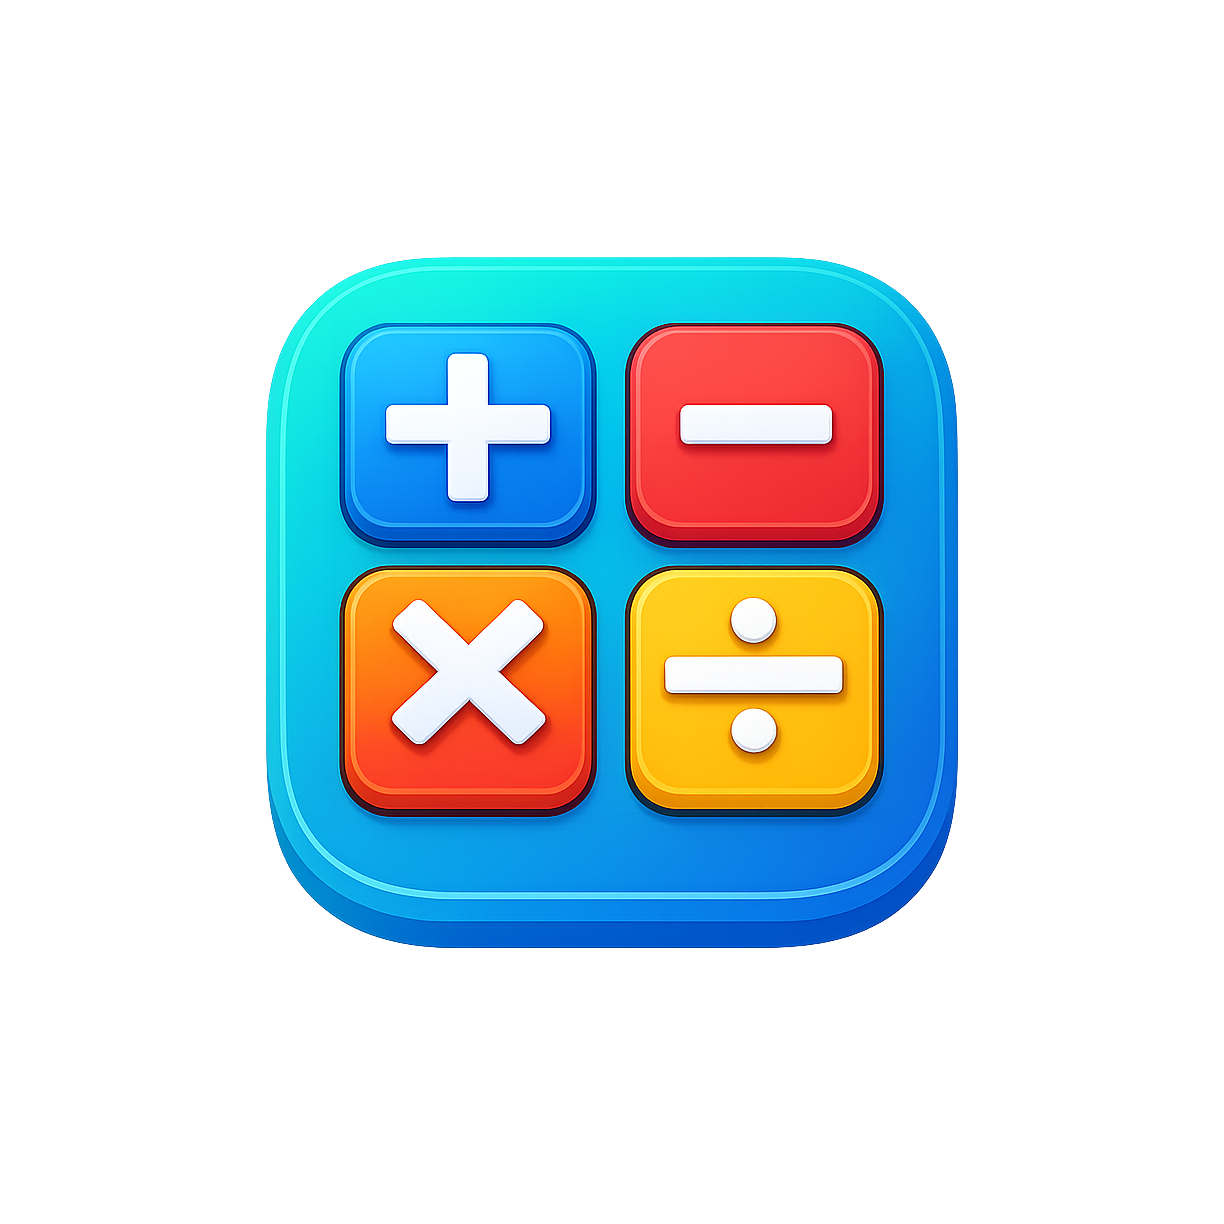
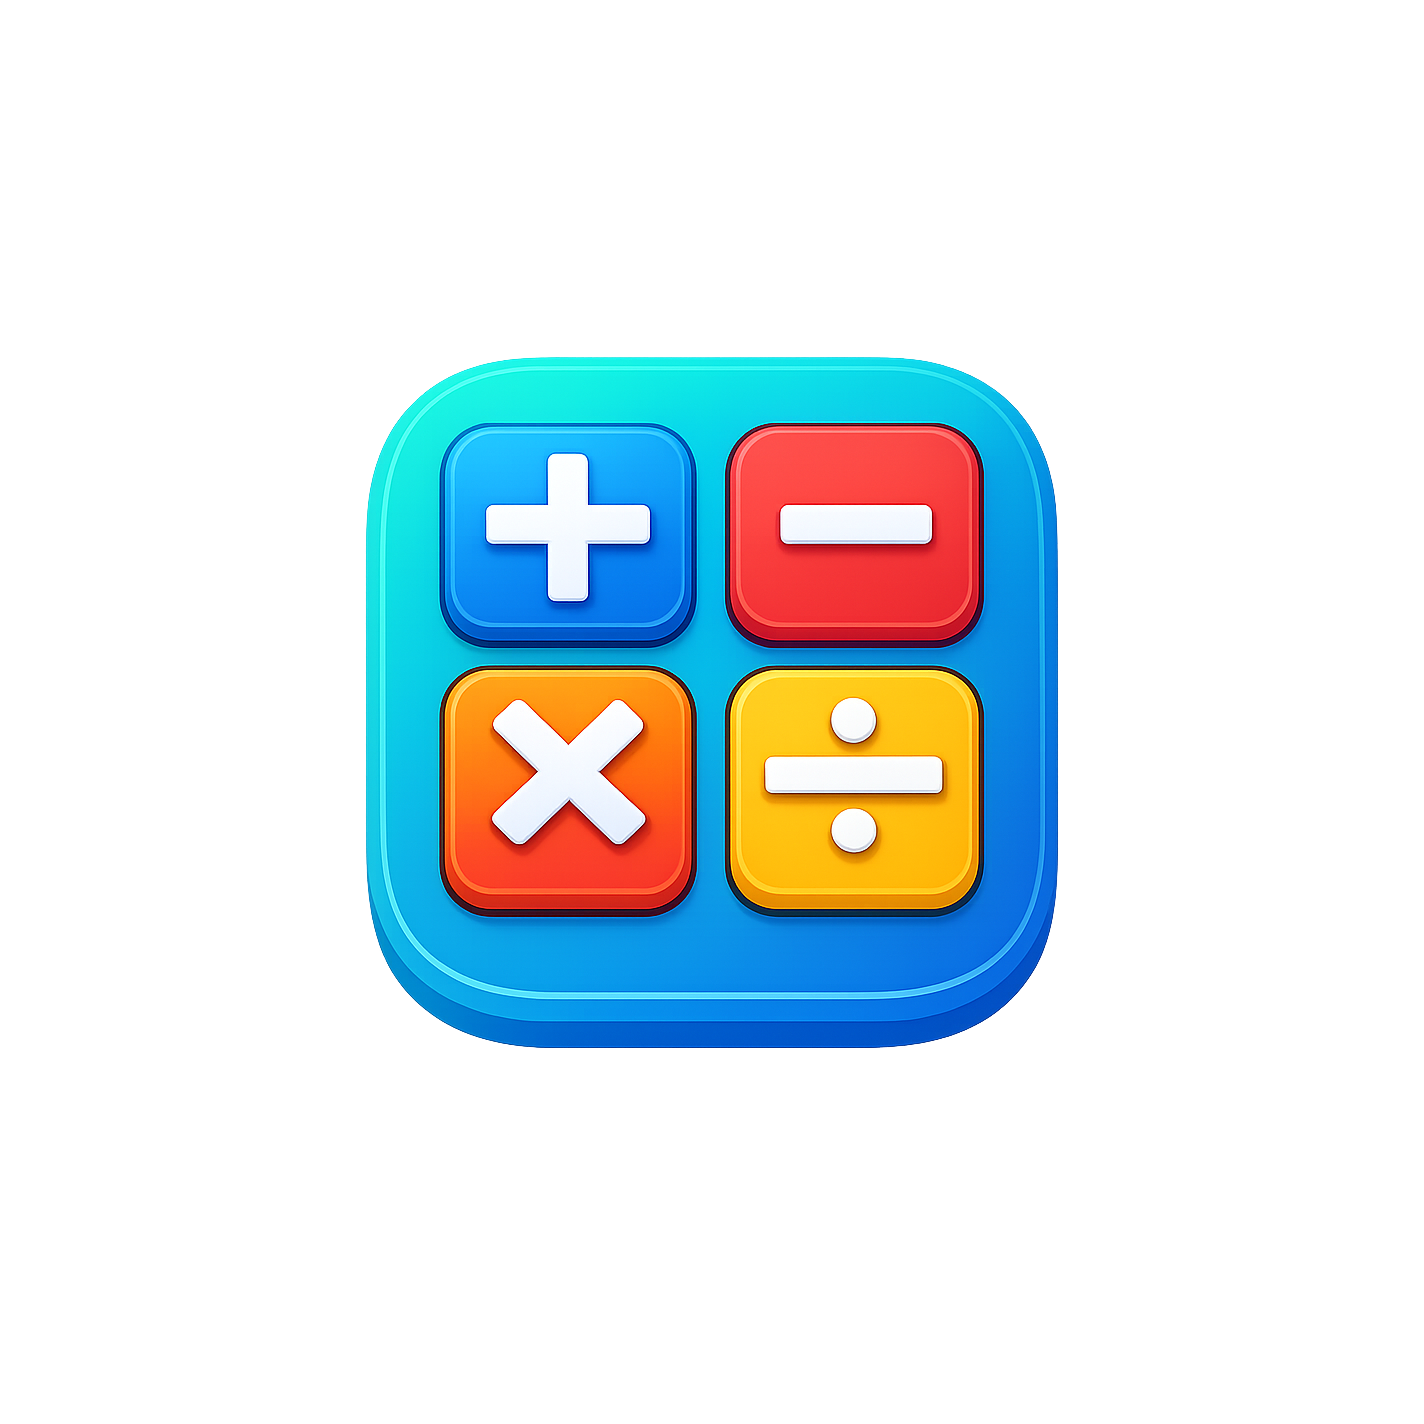
feat: implement calculator functionality and add NotFound component; update README and assets

Changed region(s): [[0.2173, 0.1863, 0.8072, 0.7761]]

diff --git a/README.md b/README.md
@@ -10,7 +10,7 @@ It supports basic arithmetic operations with a clean UI optimized for mobile dev
 ---
 
 ## 📥 Download App
-Link: [Click here](https://expo.dev/accounts/saikat-pradhan777/projects/Calculator_using_React_Native/builds/d55f9787-ec3e-47dd-bfa9-6c3f470a5171)
+Link: [Click here](https://expo.dev/accounts/saikat-pradhan777/projects/Calculator_using_React_Native/builds/f464ba05-2e0b-4289-8f52-df9e5b785687)
 
 ---
 